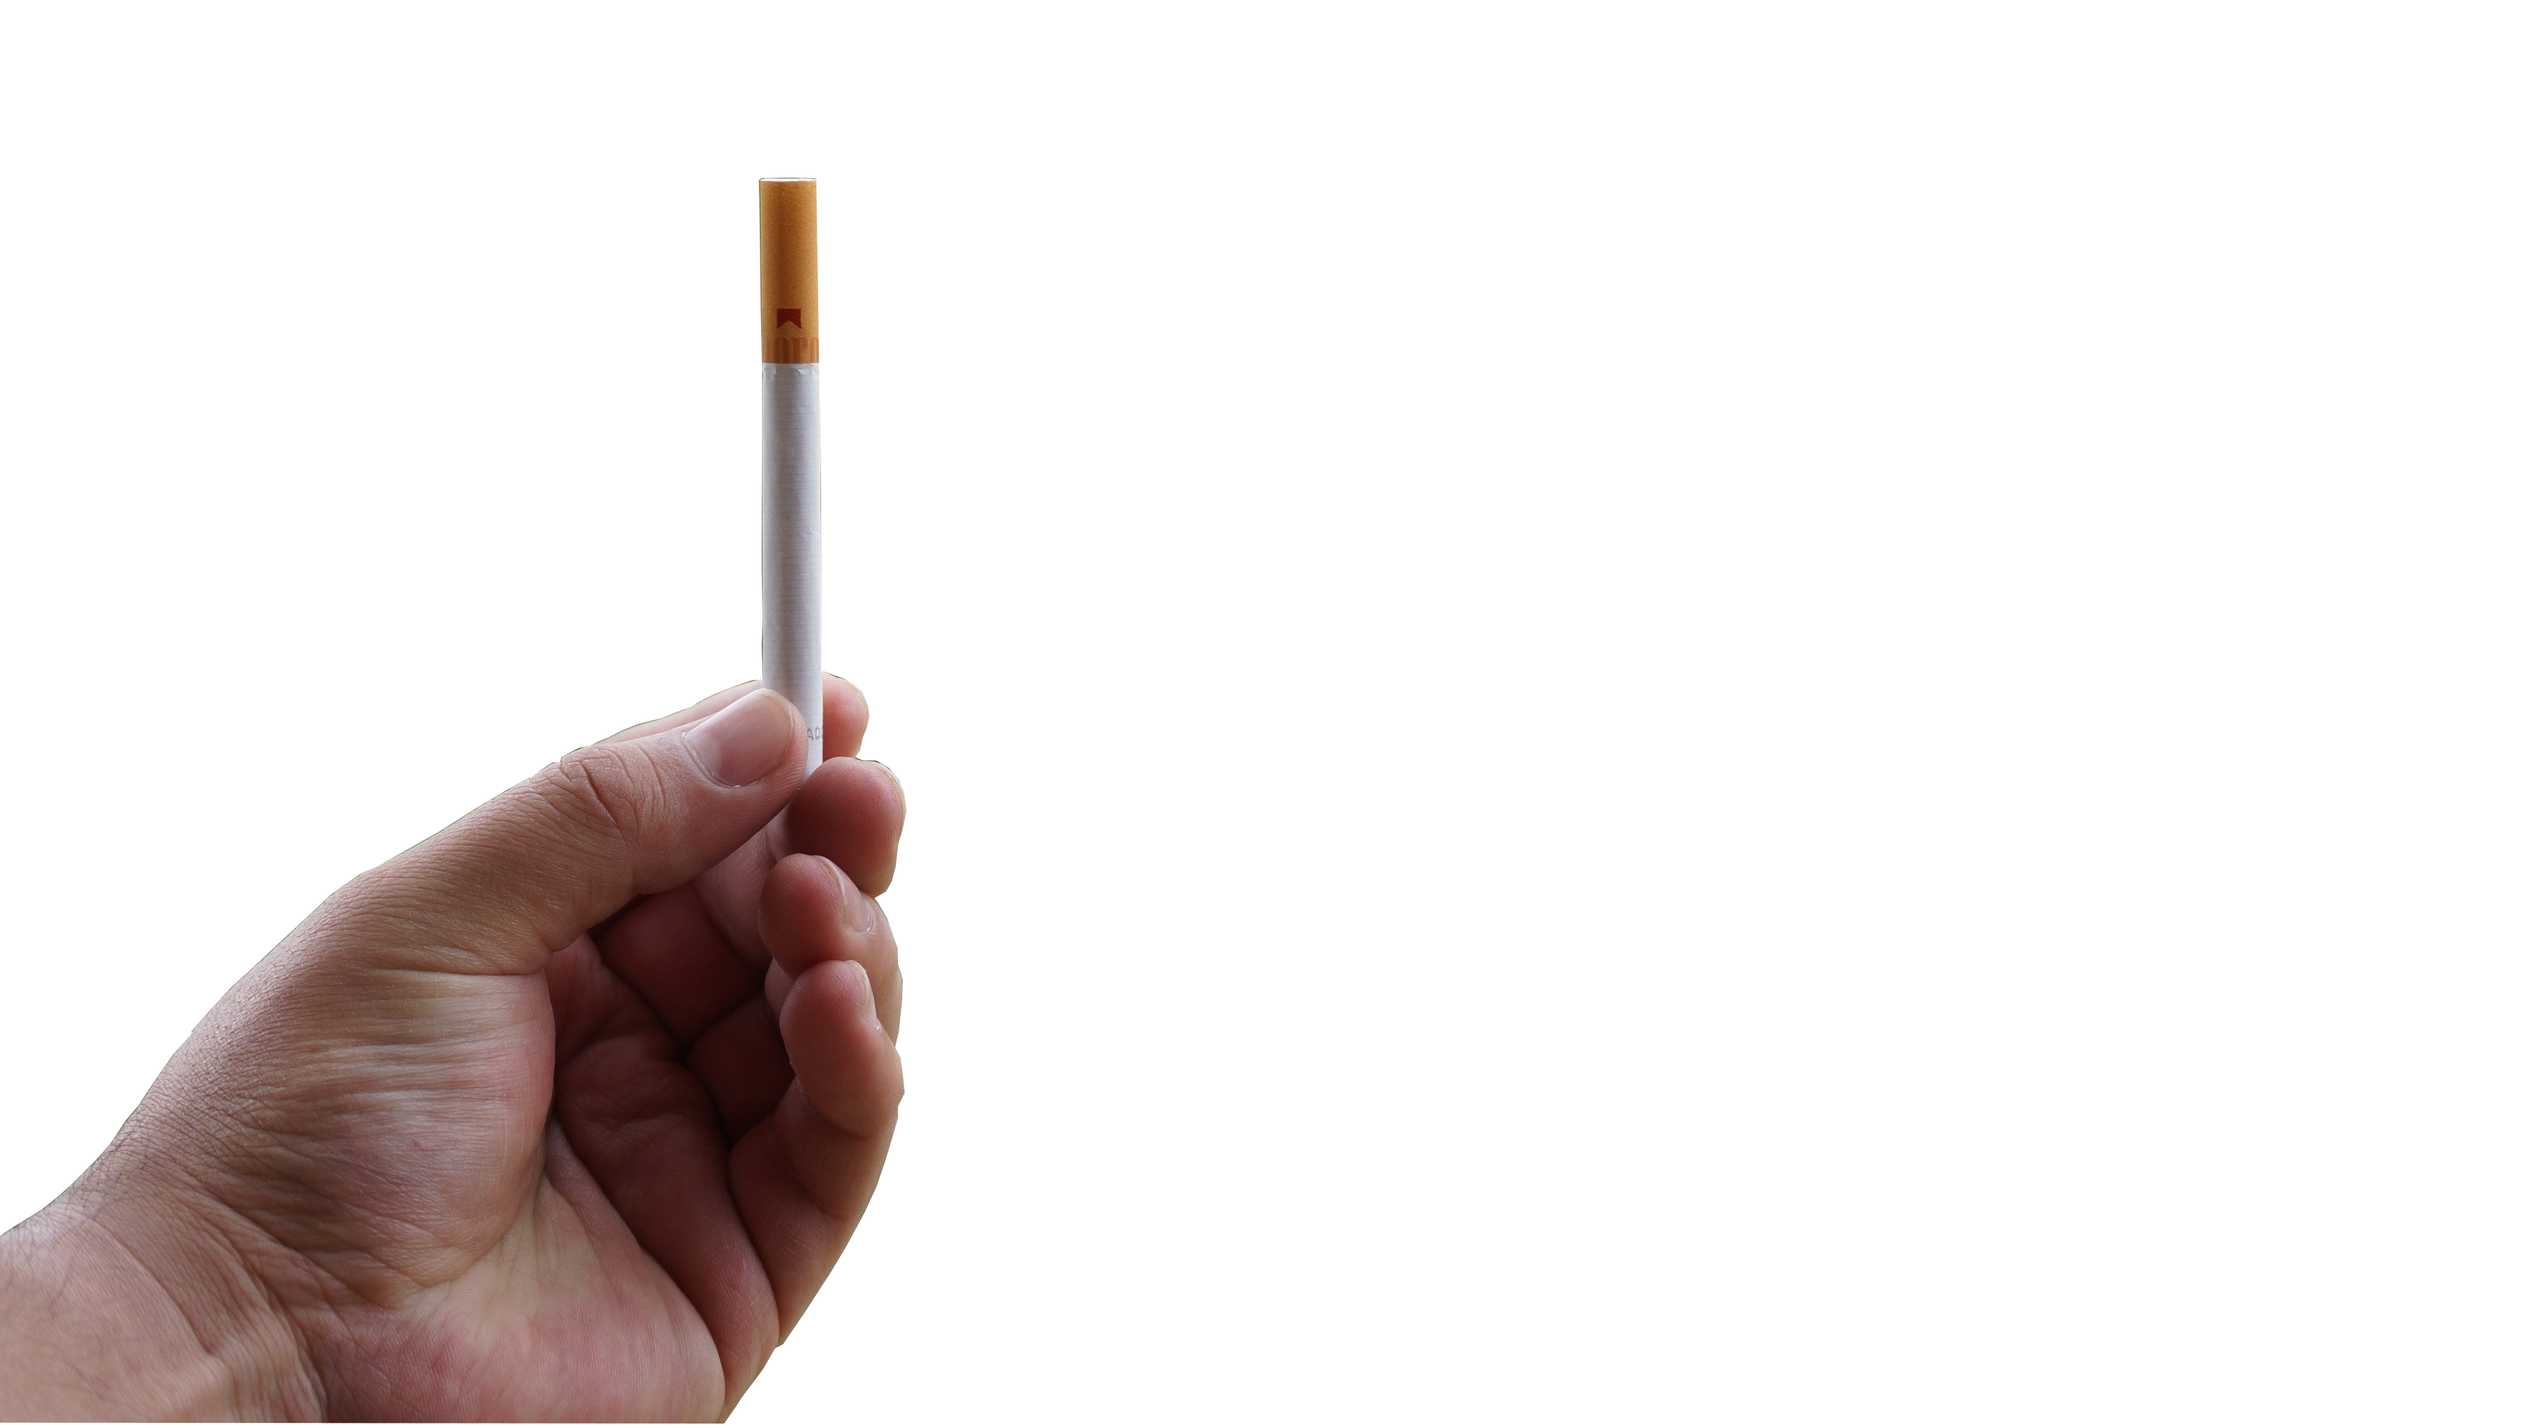
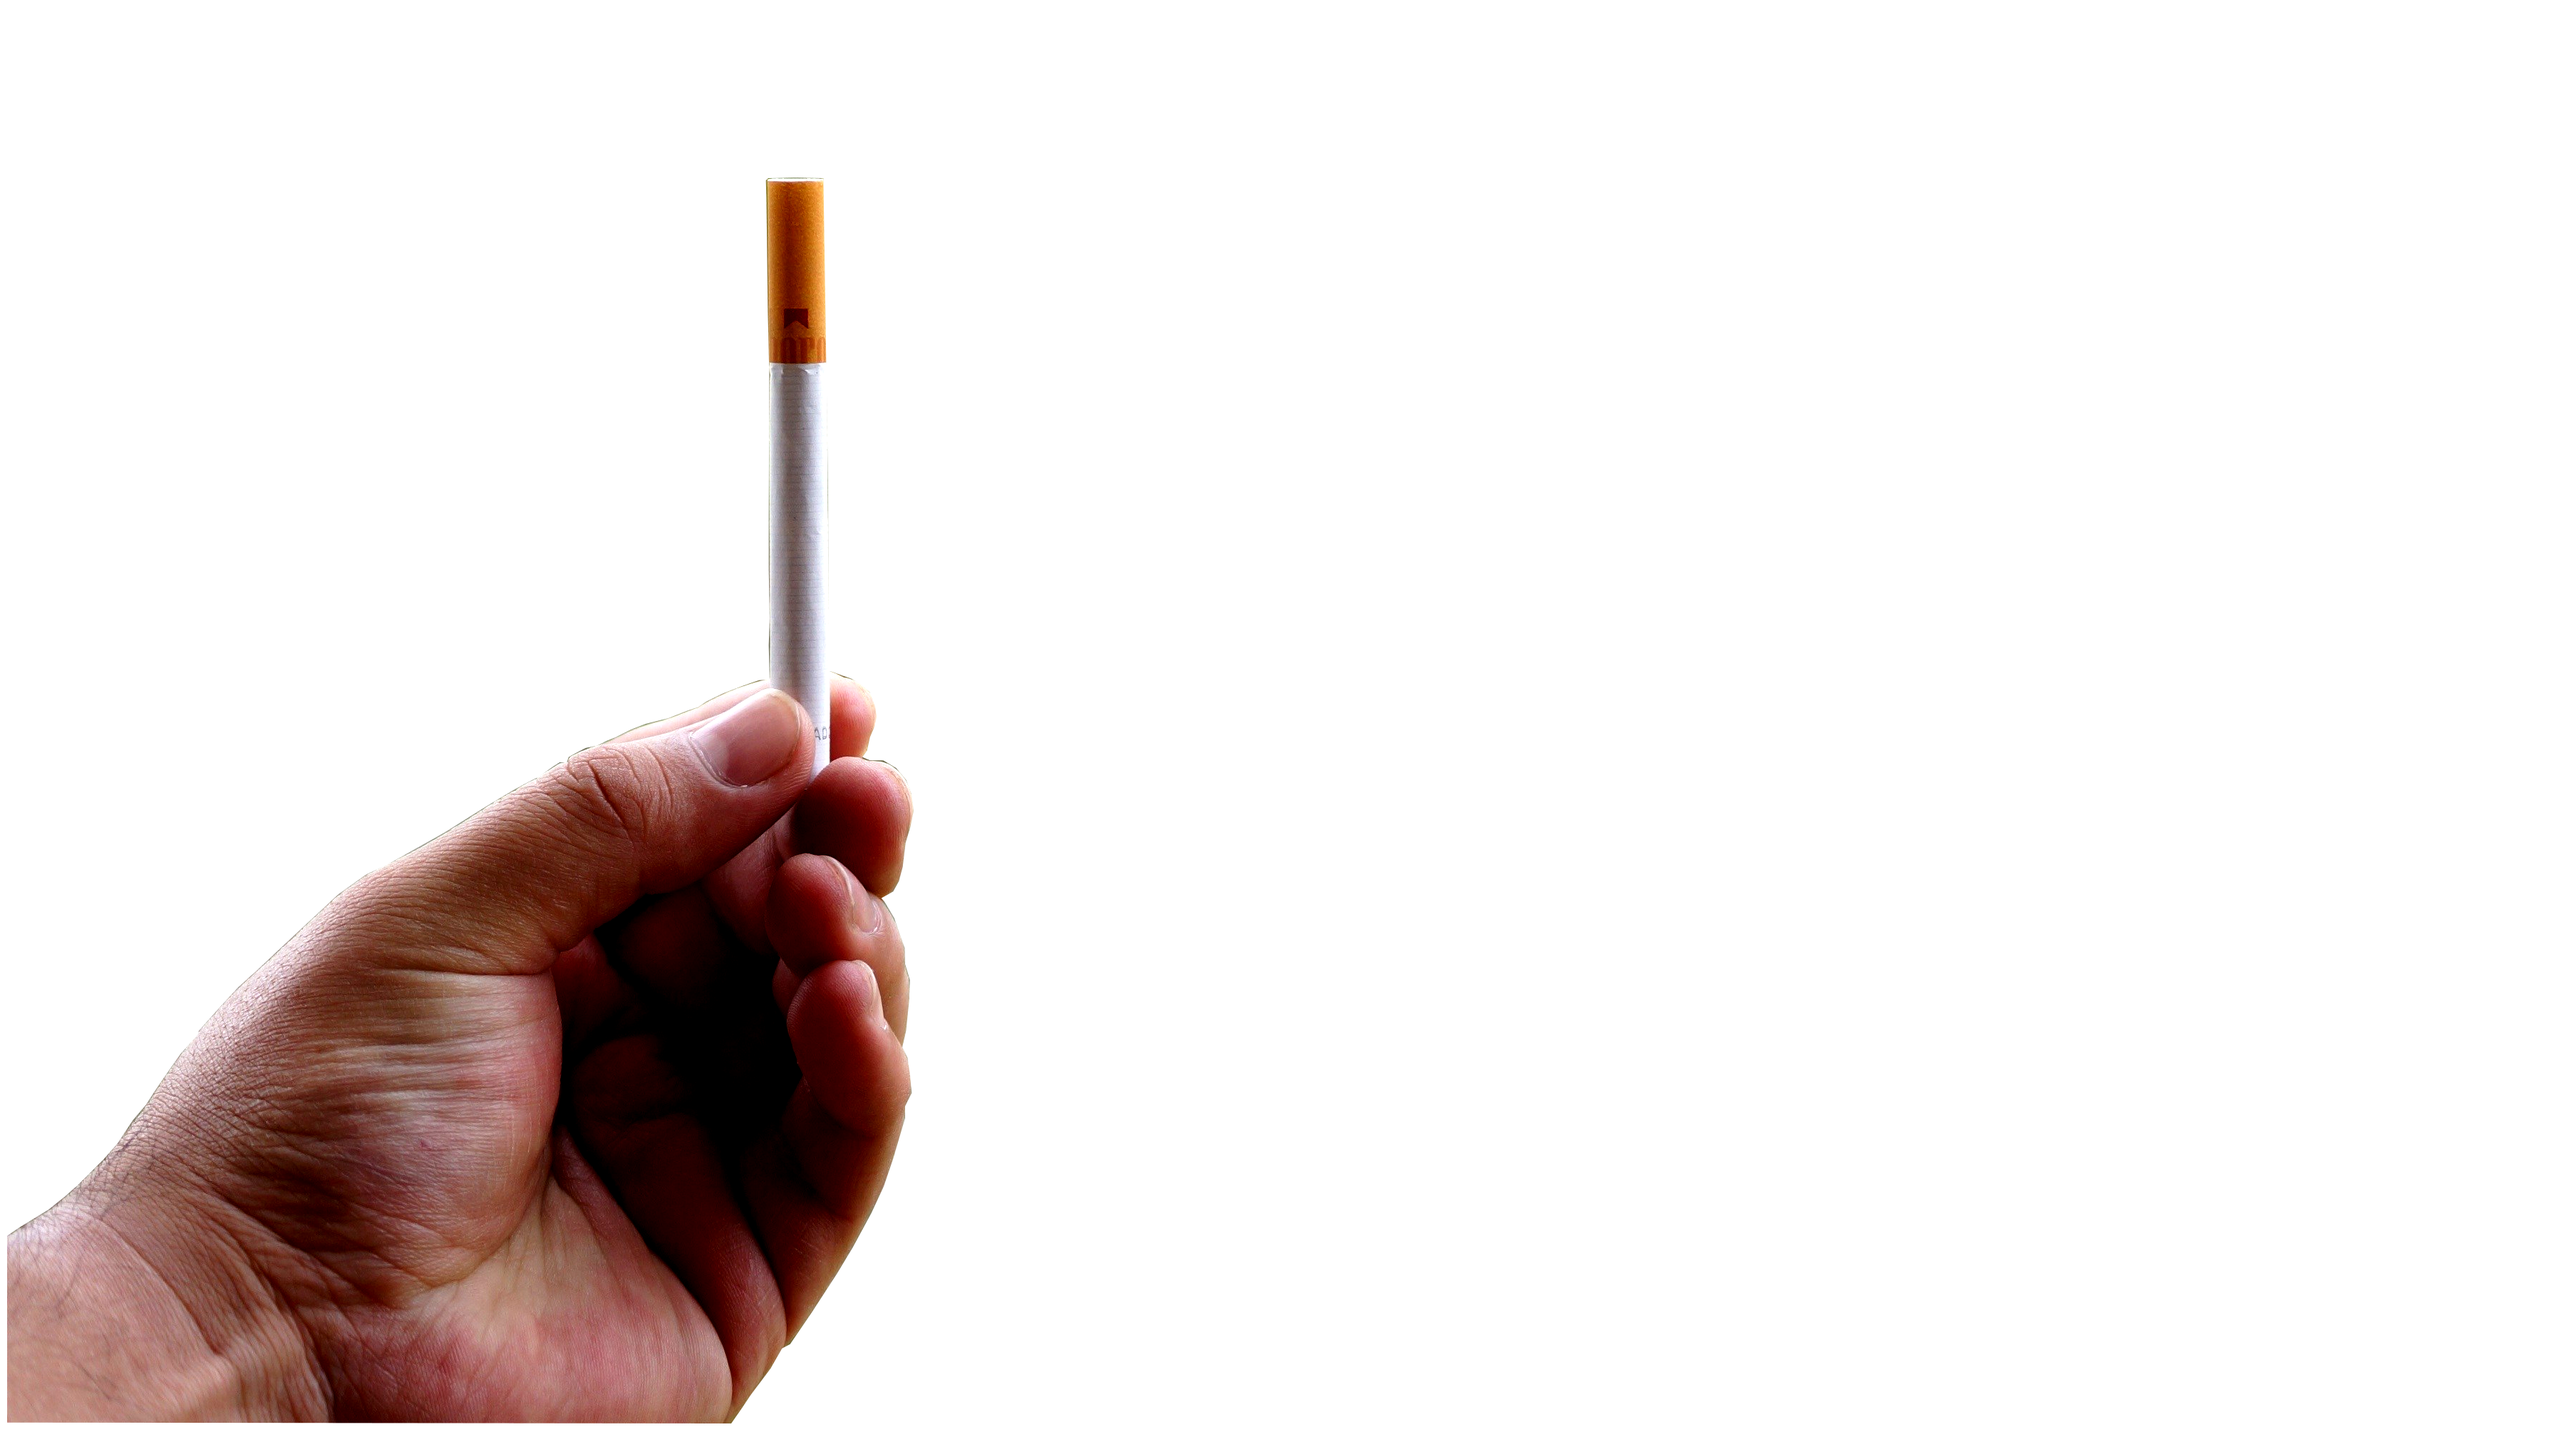
New article

Changed region(s): [[0.0, 0.124, 0.3733, 1.0]]

diff --git a/static/custom/art_cont.css b/static/custom/art_cont.css
@@ -602,13 +602,13 @@
 	top:0px;
 	left:0px;
 	background-size:cover;
-	background:url('../img/sigarette.jpg');
+	background:url('../img/sigarette2.jpg');
 	}
 
 
 .article_container .title
 	{
-	width:50%;
+	width:500px;
 	padding:50px;
 	font-size:50px;
 	color:white;
@@ -616,15 +616,12 @@
 	text-align:right;
 	position:absolute;
 	top:40%;
-	right:50px;
+	right:20%;
 	z-index:4;
+	line-height:1.2;
 	display:none;
 	}
 
-.article_container .bouncing
-	{
-	display:block;
-	}
 
 
 .article_container .article_img .sigarette_hand
@@ -649,6 +646,7 @@
 	}
 
 
+
 /* CAPSULEFOR <article_img:mouse_move_img;CLOSE>  */
 
 
@@ -669,7 +667,7 @@
 
 .article_container .block_container
 	{
-	width:100%;
+	width:87%;
 	margin-top:0px;
 	padding-top:50px;
 	position:relative;
@@ -677,6 +675,7 @@
 	background:white;
 	z-index:5;
 	text-align:center;
+	margin-left:0px;
 	}
 
 
@@ -693,16 +692,23 @@
 	vertical-align:top;
 	height:auto;
 	display:inline-block;
-	width:200px;
-	
+	width:20%;
+	max-width:200px;
+	position:fixed;
+	top:200px;
+	right:0px;
+	background:rgba(62, 108, 147,0.7);
+	display:none;
 	}
+
 
 .article_container .left_col ul
 	{
-
-	border-right-color:gray;
+	list-style:none;
+	padding:0px;
+	border-right-color:rgb(236, 236, 236);
 	border-right-style:solid;
-	border-right-width:1px;
+	border-right-width:3px;
 
 	}
 
@@ -712,32 +718,20 @@
 
 .article_container .left_col ul li
 	{
-	font-size:17px;
+	font-size:14px;
 	cursor:pointer;
-	color:rgb(111, 152, 255);
-
-	width:80%;
-
-	border-radius:3px;
-	padding-left:3px;
-
-
-	border-color:white;
-	border-style:solid;
-	border-width:1px;
-	border-radius:3px; 
-
+	color:white;
+	width:100%;
+	max-width:200px;
+	padding:10px;
+	text-align:left;
 	}
 
 .article_container .left_col ul li:hover
 	{
-	border-color:rgb(218, 228, 255);
-	border-style:solid;
-	border-width:1px;
-	border-radius:3px; 
-
-	color:rgb(52, 99, 216);
--	background:rgb(218, 228, 255);
+	color:rgb(197, 197, 197);
+	background:#eee;
+	text-shadow:0px 1px 1px white;
 	}
 
 
@@ -753,10 +747,11 @@
 .article_container .right_col
 	{
 	display:inline-block;
-	width:500px;
 	vertical-align:top;
 	text-align:justify;
-	max-width:1000px;
+	width:70%;
+	max-width:700px;
+	padding-left:20px;
 	}
 
 
@@ -802,5 +797,9 @@
 
 
 
+.article_container .bouncing
+	{
+	display:block;
+	}
 
 

diff --git a/static/tmp/article.html b/static/tmp/article.html
@@ -9,11 +9,11 @@
 			parallax
 			parallax-top="100%"
 			delay-class="top_pos"
-			delay-duration="1000"	
+			delay-duration="100"	
 			></div>
 
 
-		<div class="title" delay-class="bouncing animated bounceInRight" delay-duration="1500">
+		<div class="title" delay-class="bouncing animated bounceInRight" delay-duration="500">
 			<span>Read in details article</span>
 		</div>
 	</div>
@@ -22,7 +22,7 @@
 
 	<div class="block_container">
 		<div class="empt"></div>
-		<div class="left_col">
+		<div class="left_col" delay-class="animated bounceInDown bouncing" delay-duration="500">
 			<ul>
 				<li ng-click="go_to('about_article')" ng-class="{'active':cur_menu=='about_article'}">О статье</li>
 				<li ng-click="go_to('motivation')" ng-class="{'active':cur_menu=='motivation'}">Мотивация</li>
